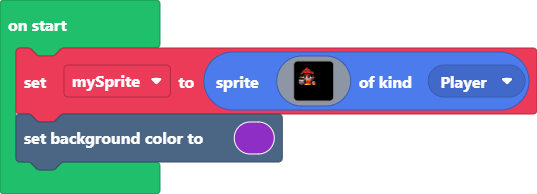
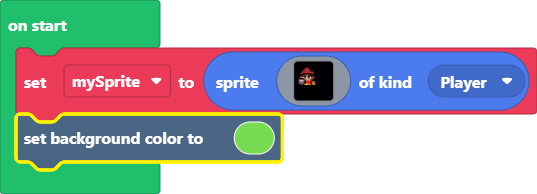
Update main.blocks, main.ts

Changed region(s): [[0.0, 0.5567, 0.5363, 0.8969]]

diff --git a/main.ts b/main.ts
@@ -24,4 +24,4 @@ let mySprite = sprites.create(img`
     ........................
     ........................
     `, SpriteKind.Player)
-scene.setBackgroundColor(10)
+scene.setBackgroundColor(7)
